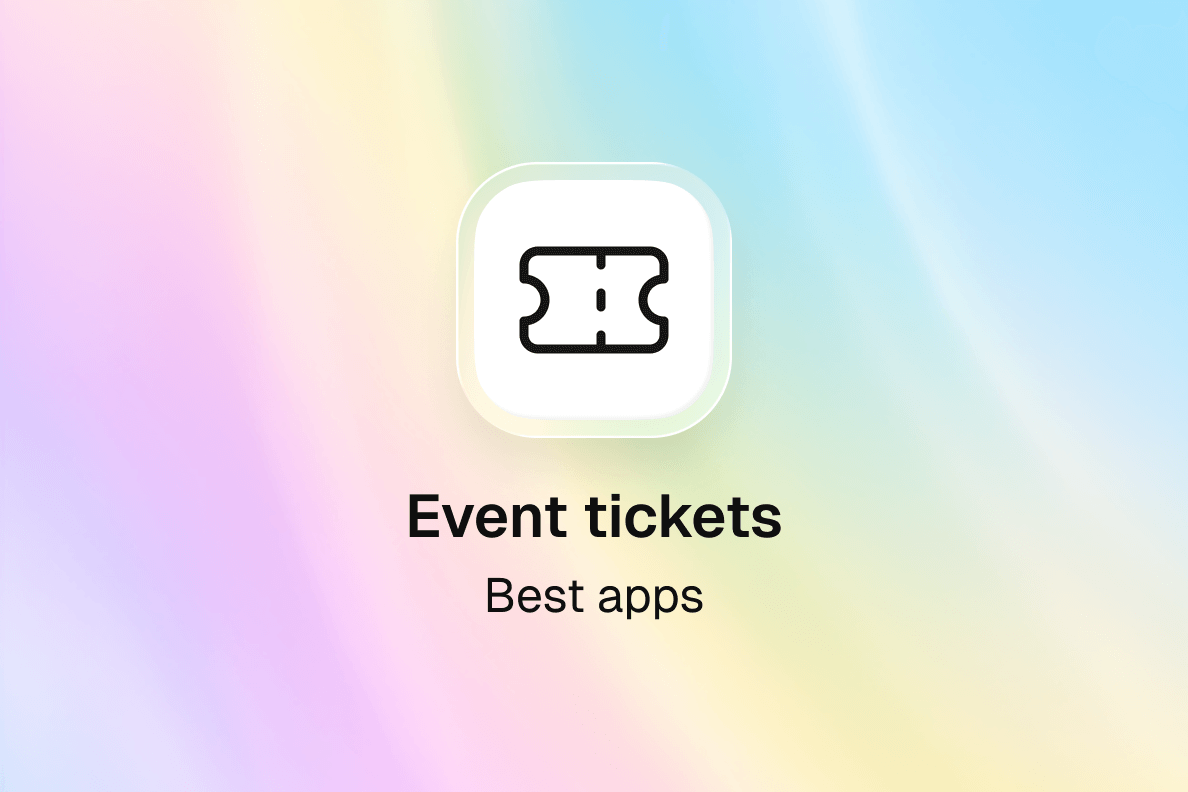
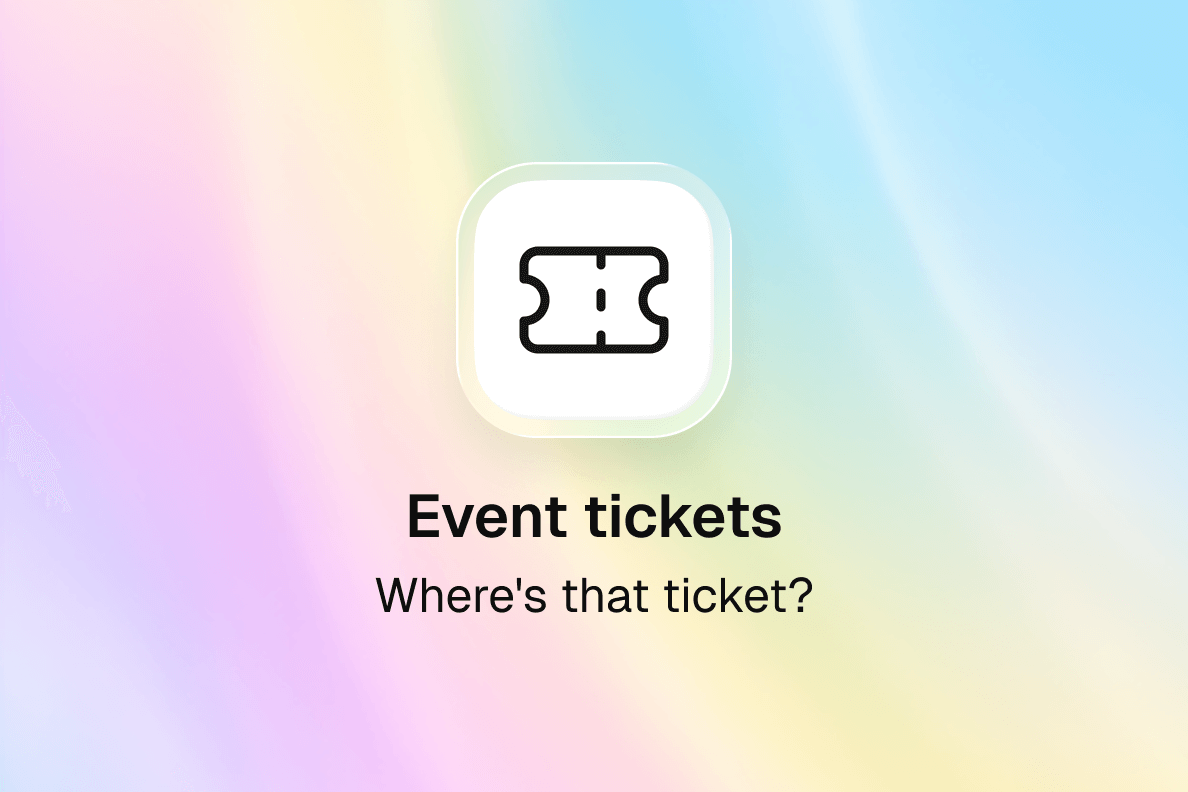
refactor: rewrite flight tickets on iPhone article with gate scenario
Key insight: 30 seconds at the gate to find your boarding pass.

New structure:
- Opens with gate scenario: agent waiting, scrolling through email,
  47 PDFs in Files, airline app logged out
- Why this keeps happening:
  - Email PDFs get buried
  - Airline apps require login, each airline different
  - Apple Wallet only works with some airlines
  - Screenshots disappear in camera roll
- What actually works: Folio as unified solution
- Practical difference: 30 seconds searching vs 2 seconds

Added: image showing Ryanair + Vueling tickets with barcodes, seats, gates
Removed: generic comparison format

Changed region(s): [[0.3114, 0.7273, 0.6852, 0.7879], [0.436, 0.3939, 0.5606, 0.4545], [0.436, 0.303, 0.5606, 0.3333]]

diff --git a/src/pages/FlightTicketsOnIphoneArticlePage.tsx b/src/pages/FlightTicketsOnIphoneArticlePage.tsx
@@ -1,42 +1,73 @@
-import BlogArticleLayout from '../components/ui/BlogArticleLayout'
-import { ArticleH2, ArticleParagraph } from '../components/ui'
+import { BlogArticleLayout, ArticleH2, ArticleParagraph, ArticleImage } from '../components/ui'
 import { Link } from 'react-router-dom'
+import flightTicketsImage from '../assets/images/blog-flight-tickets-folio.png'
 
 export default function FlightTicketsOnIphoneArticlePage() {
   return (
     <BlogArticleLayout
-      title="Flight tickets on iPhone"
-      description="Keep your boarding passes organized and accessible. Discover the best ways to manage flight tickets on your iPhone."
+      title="You have 30 seconds to find your boarding pass. Where is it?"
+      description="The gate is closing, your phone has 47 PDFs, and the barcode is somewhere. Here's how to never lose a boarding pass again."
       date="Jul 22, 2025"
       category="Product"
       slug="flight-tickets-on-iphone"
     >
       <ArticleParagraph>
-        Your flight ticket arrives in an email. You download the PDF. Take a screenshot. Forward it to yourself. By the time you reach the airport, it's buried somewhere on your iPhone. Your boarding pass should be easy to find. Ready when you need it. Accessible even when you're rushing through security.
-      </ArticleParagraph>
-
-      <ArticleH2>
-        The best ways to manage flight tickets on your iPhone
-      </ArticleH2>
-
-      <ArticleParagraph>
-        <strong>Apple Wallet</strong> is built into your iPhone. Double-tap the side button or power button to access your boarding pass instantly. Even when your phone is locked. Many airlines automatically add boarding passes to Wallet when you check in. It updates automatically with gate changes and flight status. The limitation: not all airlines support Wallet. And if you have tickets from multiple airlines, they're scattered across different apps. There's no search or organization. Best for quick access to compatible airline tickets. Works great if you mostly fly with Wallet-supported airlines.
+        The gate agent is waiting. You're scrolling through email, searching "boarding pass," finding six results from different trips. You open the Files app. There are 47 PDFs. You try the airline app but it logged you out. You need the password. The queue behind you is getting impatient. Your flight is boarding.
       </ArticleParagraph>
 
       <ArticleParagraph>
-        Most major airlines have their own apps. United. Delta. American. British Airways. Each stores your tickets for flights booked directly with them. These apps show your upcoming flights, check-in reminders, and gate information. Some even send push notifications for delays and gate changes. The problem: you end up with multiple apps. One for each airline you fly. There's no single place to see all your trips. Searching across apps is tedious. Best if you only fly with one or two airlines and don't mind switching between apps.
+        This happens because boarding passes end up scattered across your iPhone with no reliable way to find them when you need them most.
+      </ArticleParagraph>
+
+      <ArticleH2>Why this keeps happening</ArticleH2>
+
+      <ArticleParagraph>
+        Your boarding pass arrives as an email attachment. You download the PDF to look at it, then forget where it went. The Files app buries it among dozens of other downloads. Three weeks later, you can't find it.
       </ArticleParagraph>
 
       <ArticleParagraph>
-        Your tickets arrive as PDF attachments in email. You can keep them there. Search your inbox when you need one. It works, but it's messy. Tickets mix with other emails. Finding the right one takes time. Opening PDFs isn't fast. And if you're offline, attachments might not load. Best only if you have very few flights and don't mind digging through email.
+        The airline app works, but only for that airline. Fly Ryanair to Barcelona, then Vueling to Paris, and you need two different apps. Each requires login. Each times out. Each stores tickets differently.
       </ArticleParagraph>
 
       <ArticleParagraph>
-        <strong><Link to="/#get-the-app" className="underline hover:text-[#0a0a0a] transition-colors">Folio Wallet</Link></strong> accepts flight tickets from anywhere. Forward an email. Upload a PDF. Take a photo. It extracts the details and creates a clean, searchable ticket. All your flights live in one timeline. Past trips. Upcoming journeys. Multiple airlines. You can search by date, airline, or destination. Everything works offline. It also stores your travel documents. Passports. IDs. Hotel bookings. Travel insurance. All in one secure, encrypted place. Best for anyone who wants all flights organized in one place, regardless of which airline or booking site you used.
+        Apple Wallet is great when it works. Double-tap to access your pass instantly, even from the lock screen. But many airlines don't support it. Budget carriers especially. And if your airline doesn't add passes automatically, you're back to hunting through email.
       </ArticleParagraph>
 
       <ArticleParagraph>
-        At the airport, every second counts. You don't want to search through emails or switch between apps. You want your boarding pass ready. The right app keeps everything organized. You can see your upcoming flights at a glance. Access past tickets for expense reports. Find any trip quickly. It's not just about convenience. It's about peace of mind. Knowing your ticket is there when you need it. If you only fly occasionally and always with the same airline, their app might be enough. If you want quick access from your lock screen, use Apple Wallet. But if you fly with multiple airlines, need to organize past and future trips, or want everything in one searchable place, Folio Wallet gives you that flexibility. Your iPhone is powerful. Your flight tickets should be just as powerful. Organized. Accessible. Ready when you are.
+        Screenshots seem like the solution until you have 2,000 photos and can't find anything. "It's somewhere in October" doesn't help when you're standing at the gate.
+      </ArticleParagraph>
+
+      <ArticleH2>What actually works</ArticleH2>
+
+      <ArticleParagraph>
+        <Link to="/#get-the-app" className="underline hover:text-[#737373] transition-colors">Folio</Link> takes boarding passes from anywhere. Forward the confirmation email. Upload the PDF. Photograph a printout. It extracts the flight details, the barcode, the seat, the gate, the baggage allowance. Everything appears on a timeline sorted by date.
+      </ArticleParagraph>
+
+      <ArticleImage
+        src={flightTicketsImage}
+        alt="Folio app showing flight tickets: Ryanair London to Barcelona and Vueling Valencia to Paris with barcodes, seat assignments, and gate information"
+      />
+
+      <ArticleParagraph>
+        At the gate, you open one app. Your flights are sorted by date. Today's flight is at the top. The barcode is displayed prominently, ready to scan. No searching. No login. No scrolling through email. Works offline too, so you're not dependent on airport WiFi.
+      </ArticleParagraph>
+
+      <ArticleParagraph>
+        The details you actually need are visible at a glance: seat 12F, gate A36, boarding time 07:55, 10kg cabin bag. The original PDF stays attached if the gate agent asks for it, but the barcode is what matters and it's right there.
+      </ArticleParagraph>
+
+      <ArticleH2>The practical difference</ArticleH2>
+
+      <ArticleParagraph>
+        With multiple apps and email, you spend 30 seconds (or more) finding your boarding pass while the gate agent waits. With everything in one place, you spend two seconds: open app, tap flight, show barcode.
+      </ArticleParagraph>
+
+      <ArticleParagraph>
+        This matters most when things go wrong. Flight cancelled, rebooked on a different airline, new boarding pass arrives while you're running through the terminal. With Folio, forward the email, the new pass appears in your timeline immediately. No hunting through inbox. No trying to remember which airline app to download.
+      </ArticleParagraph>
+
+      <ArticleParagraph>
+        If you fly once a year with one airline, their app is probably fine. If you fly multiple airlines, book through different sites, or just want to stop losing boarding passes, having everything in one searchable timeline solves the problem permanently.
       </ArticleParagraph>
     </BlogArticleLayout>
   )

diff --git a/src/data/blogArticles.ts b/src/data/blogArticles.ts
@@ -396,8 +396,8 @@ export const blogArticles: BlogArticle[] = sortArticlesByDate([
   {
     category: 'Product',
     date: 'Jul 22, 2025',
-    title: 'Flight tickets on iPhone',
-    description: 'Keep your boarding passes organized and accessible. Discover the best ways to manage flight tickets on your iPhone.',
+    title: 'You have 30 seconds to find your boarding pass. Where is it?',
+    description: "The gate is closing, your phone has 47 PDFs, and the barcode is somewhere. Here's how to never lose a boarding pass again.",
     slug: 'flight-tickets-on-iphone',
     image: blogFlightTicketsOnIphone,
   },
